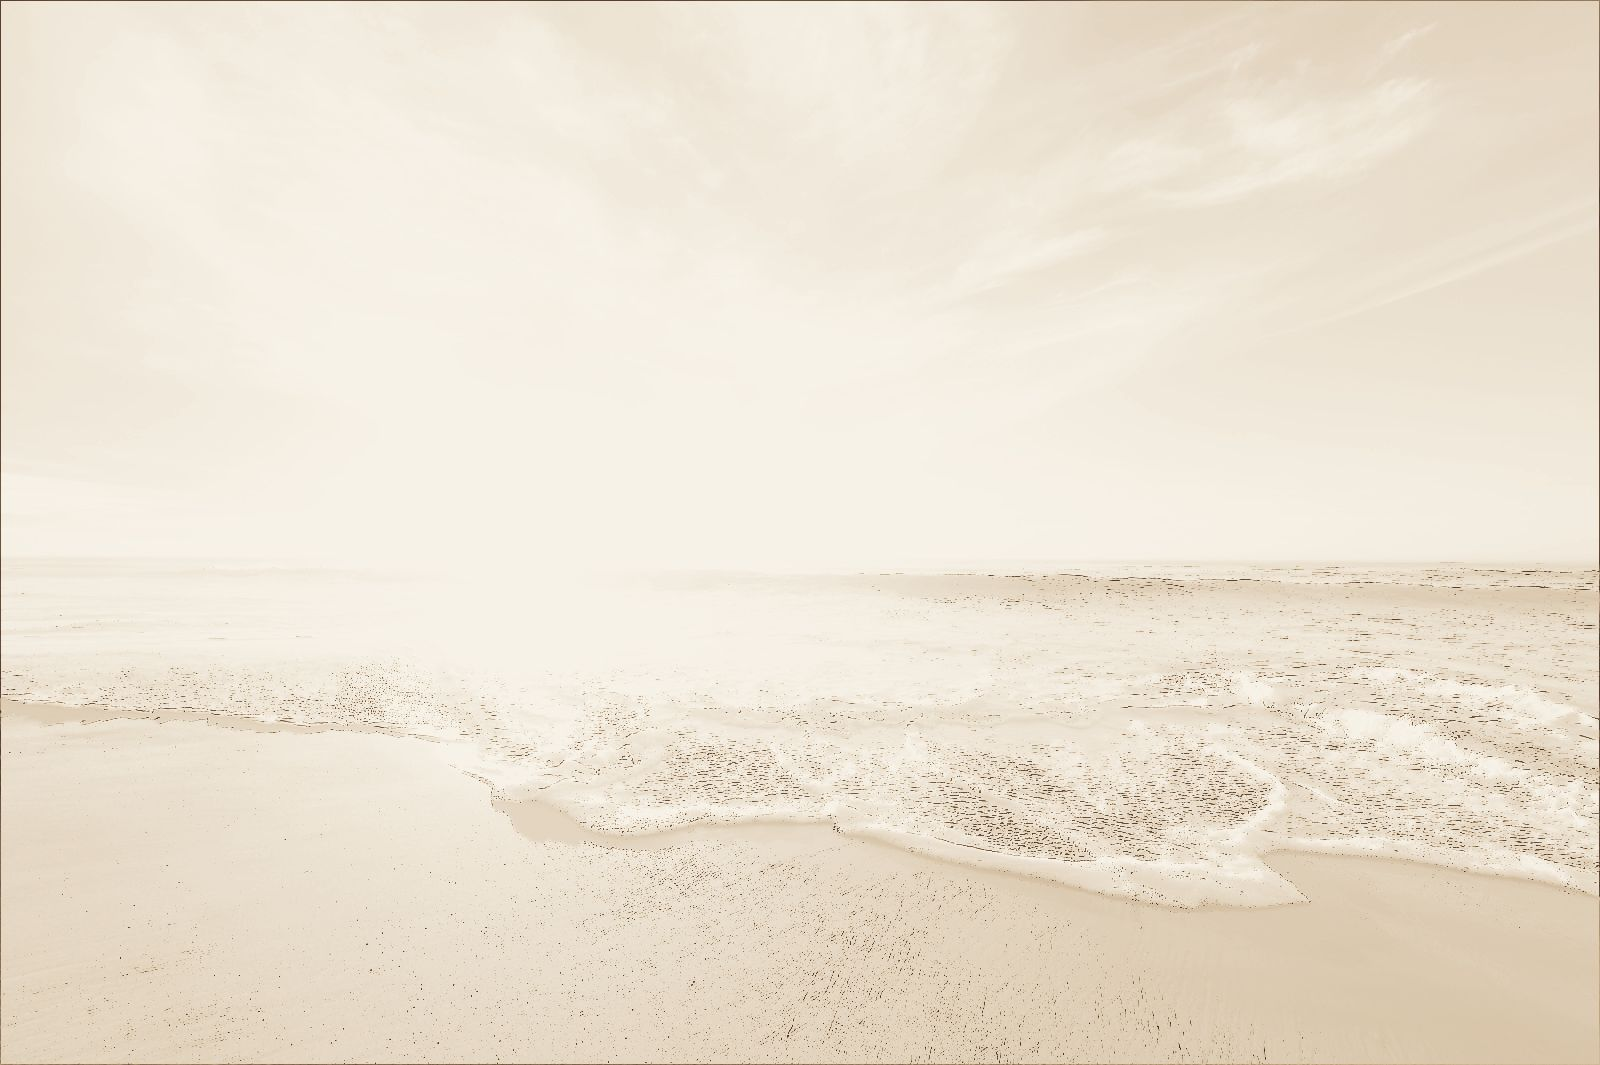
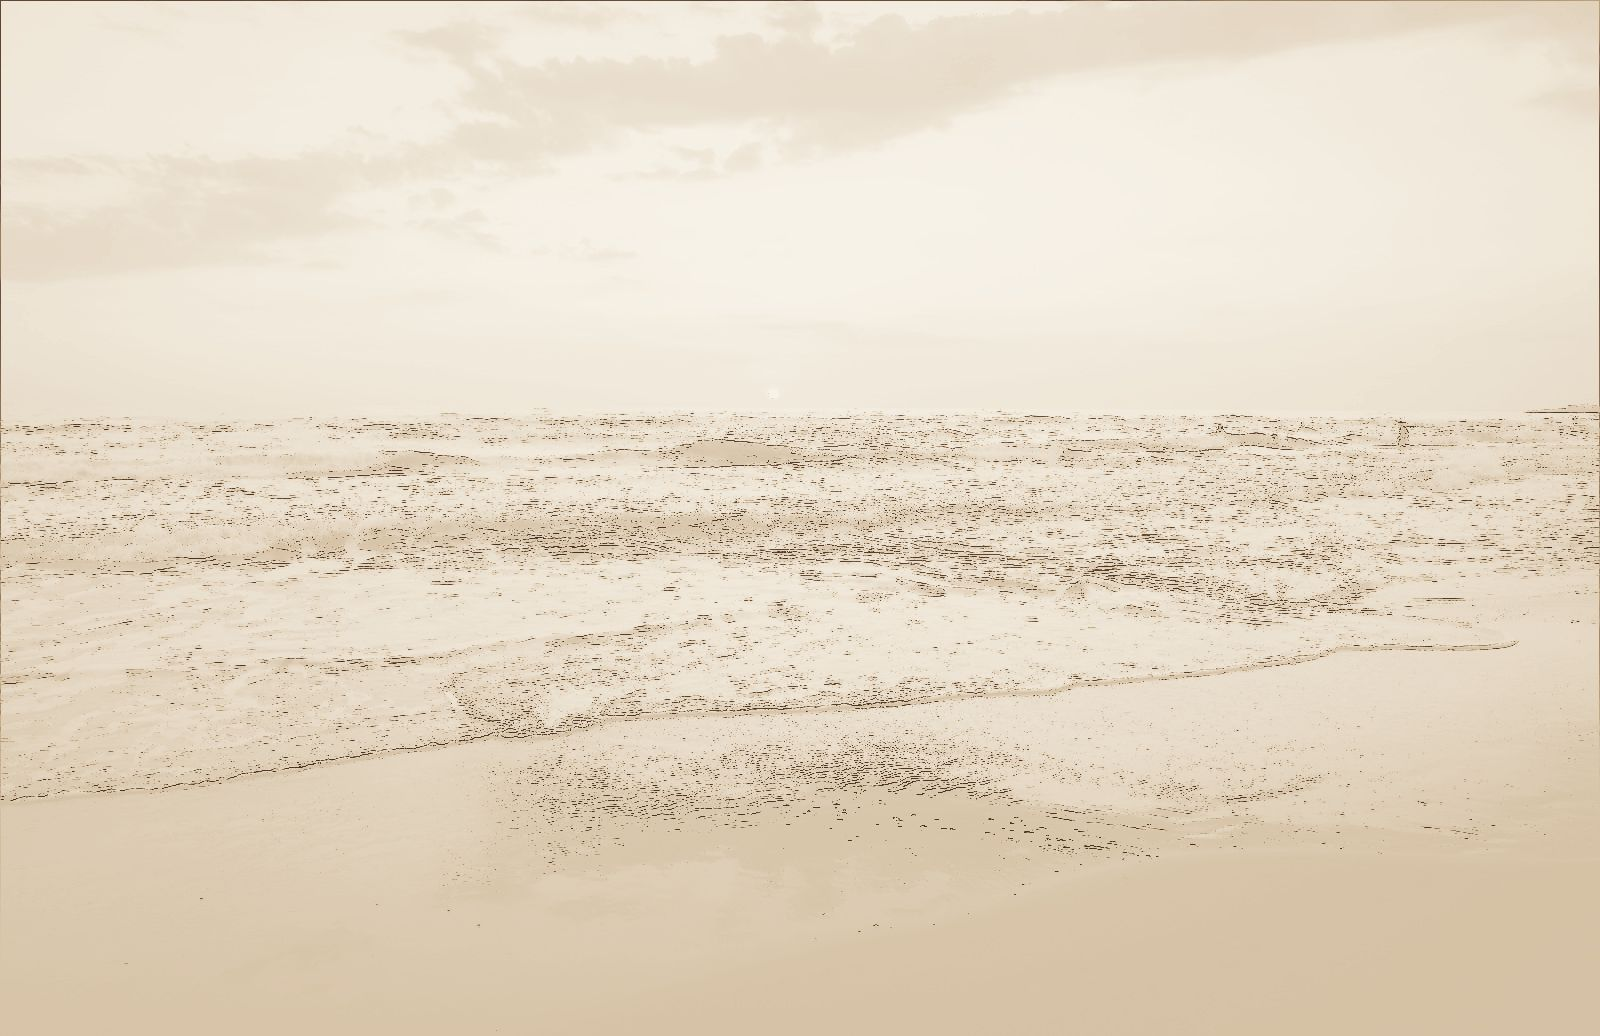
New beach sketch, add tropical sketch, all products get backgrounds
- New Caribbean sunset beach sketch for Ron Coquí (replaces old one)
- New tropical forest sketch for all Blend products
- Carjaker's now uses forest/mountain sketch
- Every product now has a background sketch — no more blank heroes
- Mapping: Ron Coquí → beach, Pitorro + Carjaker's → mountain,
  Blends → tropical forest

diff --git a/producto.html b/producto.html
@@ -1175,16 +1175,17 @@
     }
 
     function beachSketch(slug) {
-      // Beach sketch for Ron Coquí products
+      // Beach — Ron Coquí white/citrus rums
       var beachSlugs = ['ron-blanco', 'ron-limon', 'caneca-blanco', 'caneca-limon'];
-      // Forest/mountain sketch for Pitorro products
+      // Forest/mountain — Pitorro traditional line
       var forestSlugs = ['pitorro-blanco', 'pitorro-coco-35', 'pitorro-coco-15', 'pitorro-cafe',
         'pitorro-tamarindo', 'pitorro-parcha', 'pitorro-pina', 'pitorro-fresa', 'pitorro-frutas',
-        'mini-blanco', 'mini-coco', 'mini-parcha', 'mini-tamarindo', 'mini-cafe'];
-      var img = null;
+        'mini-blanco', 'mini-coco', 'mini-parcha', 'mini-tamarindo', 'mini-cafe', 'carjakers'];
+      // Tropical — Blends
+      var img;
       if (beachSlugs.includes(slug)) img = 'img/sketch-beach-sunset.jpg';
       else if (forestSlugs.includes(slug)) img = 'img/sketch-forest-mountain.jpg';
-      if (!img) return '';
+      else img = 'img/sketch-tropical.jpg';
       return '<div class="hero-sketch" aria-hidden="true"><img src="' + img + '" alt="" loading="eager"></div>';
     }
 
